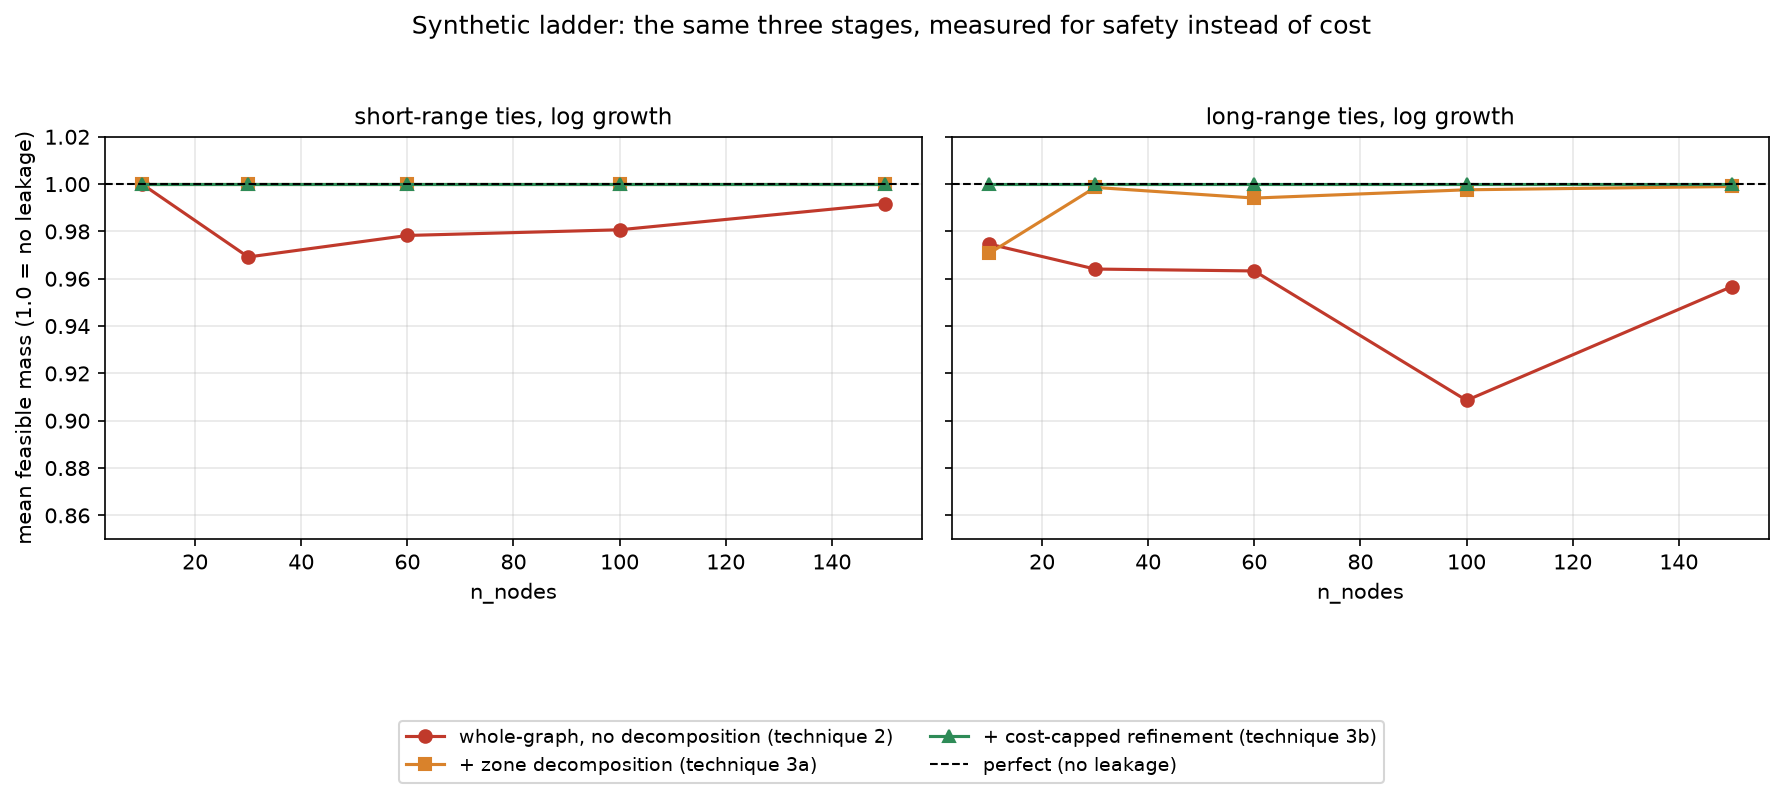
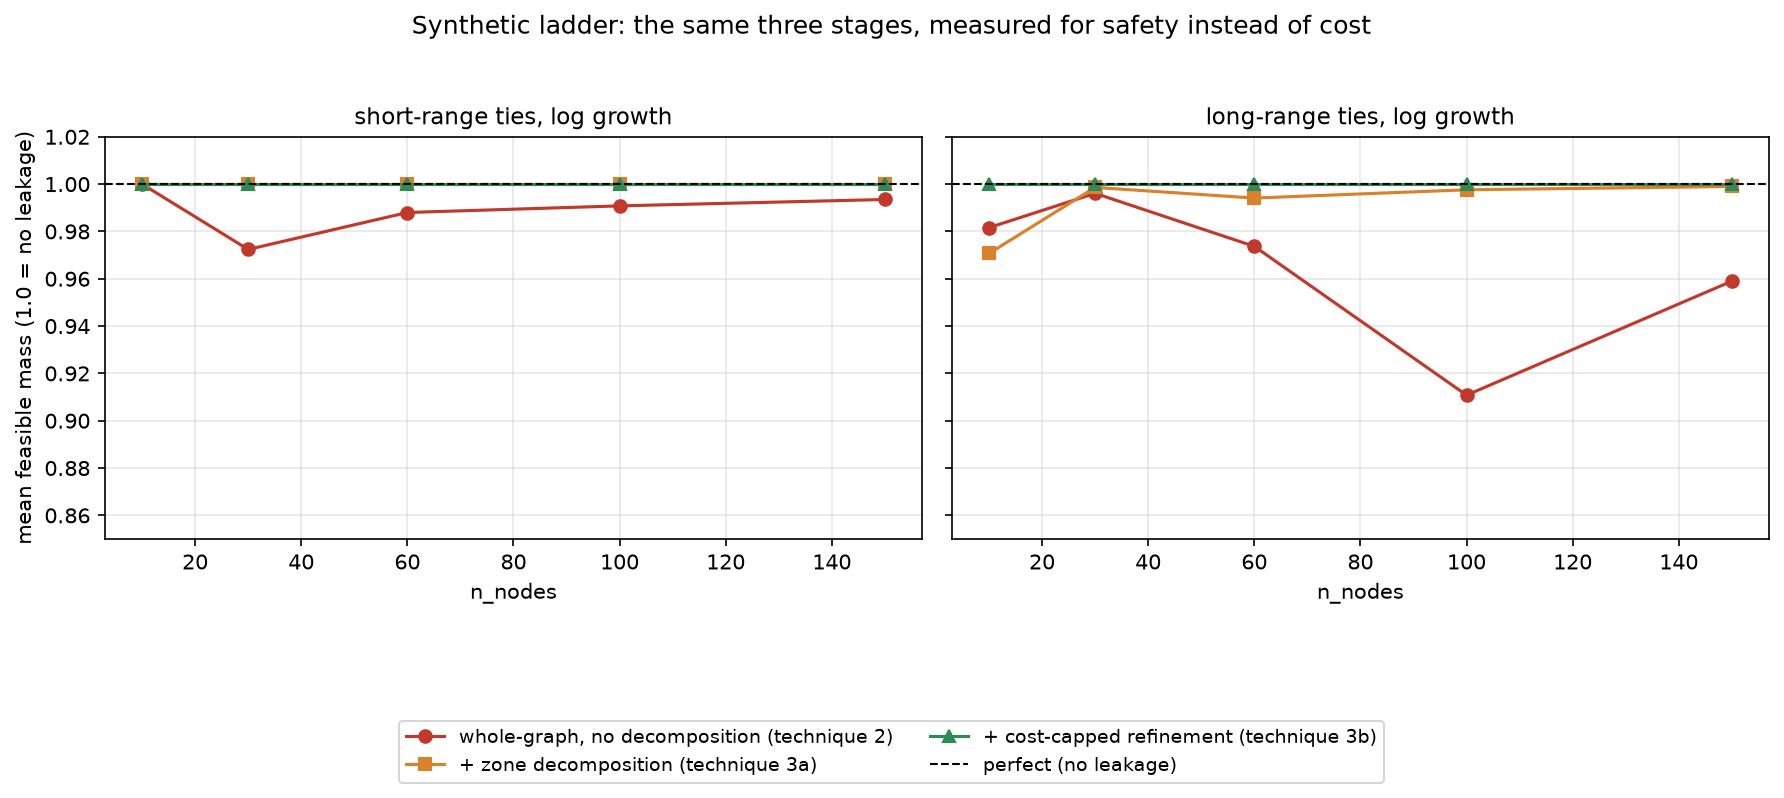
Fix technique 2's data source: figures were plotting adaptive, not fixed
Full-repo review turned up a real correctness bug, not a style issue.
plot_results_figures.py's three synthetic figures (construction_progression_plot.png,
synthetic_mass_progression_plot.png, synthetic_nisq_feasibility_plot.png)
all read `cost_aware_scaling_ladder_summary.csv` for "technique 2,
whole-graph, no decomposition" -- but that file is produced by
`run_cost_aware_scaling_ladder.py`, which explicitly sets `adaptive=True`
("this script measures the ADAPTIVE construction specifically", per its
own comment). The Techniques section defines technique 2 as the FIXED
`cost_alpha=0.01` construction -- "this construction's validated
default" -- which is what `run_fixed_alpha_ladder.py` actually measures,
into a separate file, `fixed_alpha_ladder_summary.csv`, that the plotting
script was never pointed at.

The two datasets are genuinely different, not noise: at short_log
n_nodes=30, fixed=4404 CX vs. adaptive=1303 CX; at long_log n_nodes=60,
fixed=11504 vs. adaptive=22785. Switched all three figures to
`fixed_alpha_ladder_summary.csv`. Updated the two absolute CX numbers
this affected in the README's n_nodes=150 table (short-range whole-graph
2,361 -> 2,745; long-range 10,825 -> 10,712 -- both close enough at this
particular size that the qualitative reading is unchanged, but the
numbers themselves were wrong).

Re-ran `run_fixed_alpha_ladder.py` before trusting its committed CSV,
which caught a second, smaller staleness issue: the file still carried
[…]

diff --git a/scripts/plot_results_figures.py b/scripts/plot_results_figures.py
@@ -58,7 +58,10 @@ def _series(rows: list[dict], key_col: str, key_val: str, x_col: str, y_col: str
 
 
 def plot_construction_progression() -> None:
-    whole = _rows("cost_aware_scaling_ladder_summary.csv")
+    # technique 2 = FIXED cost_alpha=0.01, this construction's validated
+    # default -- NOT cost_aware_scaling_ladder_summary.csv, which
+    # (per that script's own docstring) measures the ADAPTIVE variant.
+    whole = _rows("fixed_alpha_ladder_summary.csv")
     flat = _rows("decomposed_cost_aware_ladder_summary.csv")
     capped = _rows("cost_capped_decomposition_summary.csv")
 
@@ -98,7 +101,10 @@ def plot_synthetic_mass_progression() -> None:
     elsewhere). Exact construction also doesn't scale to n_nodes=150
     long-range at all -- brute-force enumeration is the reason this
     repo's exact-construction sweeps stay at small sizes everywhere else."""
-    whole = _rows("cost_aware_scaling_ladder_summary.csv")
+    # technique 2 = FIXED cost_alpha=0.01, this construction's validated
+    # default -- NOT cost_aware_scaling_ladder_summary.csv, which
+    # (per that script's own docstring) measures the ADAPTIVE variant.
+    whole = _rows("fixed_alpha_ladder_summary.csv")
     flat = _rows("decomposed_cost_aware_ladder_summary.csv")
     capped = _rows("cost_capped_decomposition_summary.csv")
 
@@ -144,7 +150,10 @@ def plot_synthetic_nisq_feasibility() -> None:
     misleadingly imply that curve's fidelity even where the other curve's
     value is what matters. Uses the ladder's hardest tested size
     (n_nodes=150) as the representative point for each condition."""
-    whole = _rows("cost_aware_scaling_ladder_summary.csv")
+    # technique 2 = FIXED cost_alpha=0.01, this construction's validated
+    # default -- NOT cost_aware_scaling_ladder_summary.csv, which
+    # (per that script's own docstring) measures the ADAPTIVE variant.
+    whole = _rows("fixed_alpha_ladder_summary.csv")
     capped = _rows("cost_capped_decomposition_summary.csv")
 
     def cx_at_150(rows: list[dict], condition: str) -> float:

diff --git a/README.md b/README.md
@@ -297,9 +297,9 @@ feasibility numbers above:
 
 | condition | construction | CX | reading |
 |---|---|---|---|
-| short-range, log growth | whole-graph | 2,361 | borderline on trapped-ion; not usable on superconducting |
+| short-range, log growth | whole-graph | 2,745 | borderline on trapped-ion; not usable on superconducting |
 | short-range, log growth | cost-capped | **73** | comfortably NISQ-ready |
-| long-range, log growth | whole-graph | 10,825 | not usable on either device |
+| long-range, log growth | whole-graph | 10,712 | not usable on either device |
 | long-range, log growth | cost-capped | **337** | comfortably NISQ-ready |
 
 ![Where the synthetic ladder lands relative to NISQ feasibility](results/synthetic_nisq_feasibility_plot.png)
